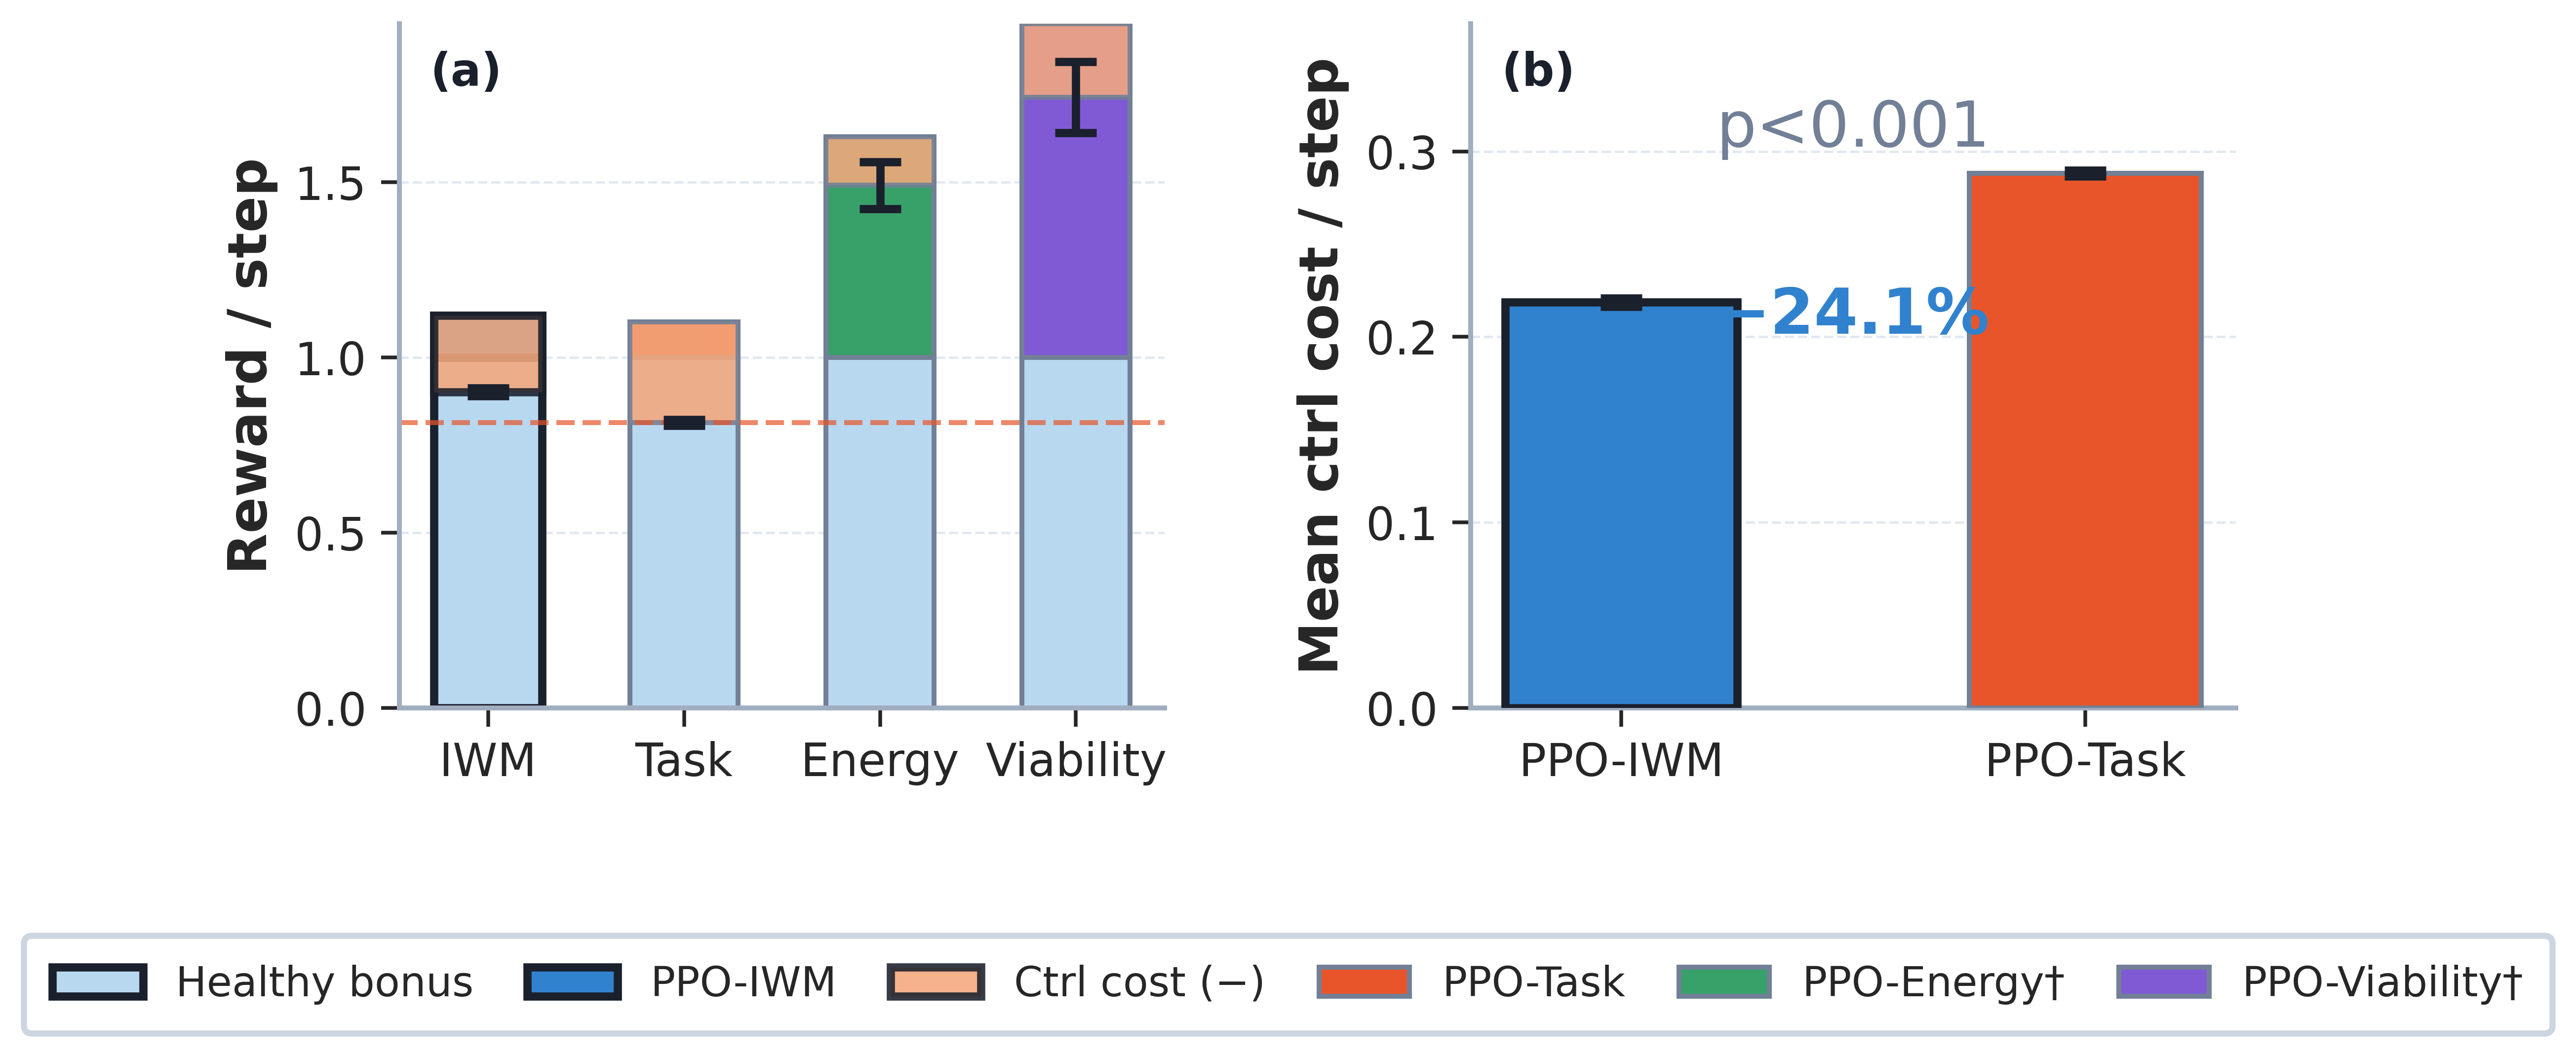
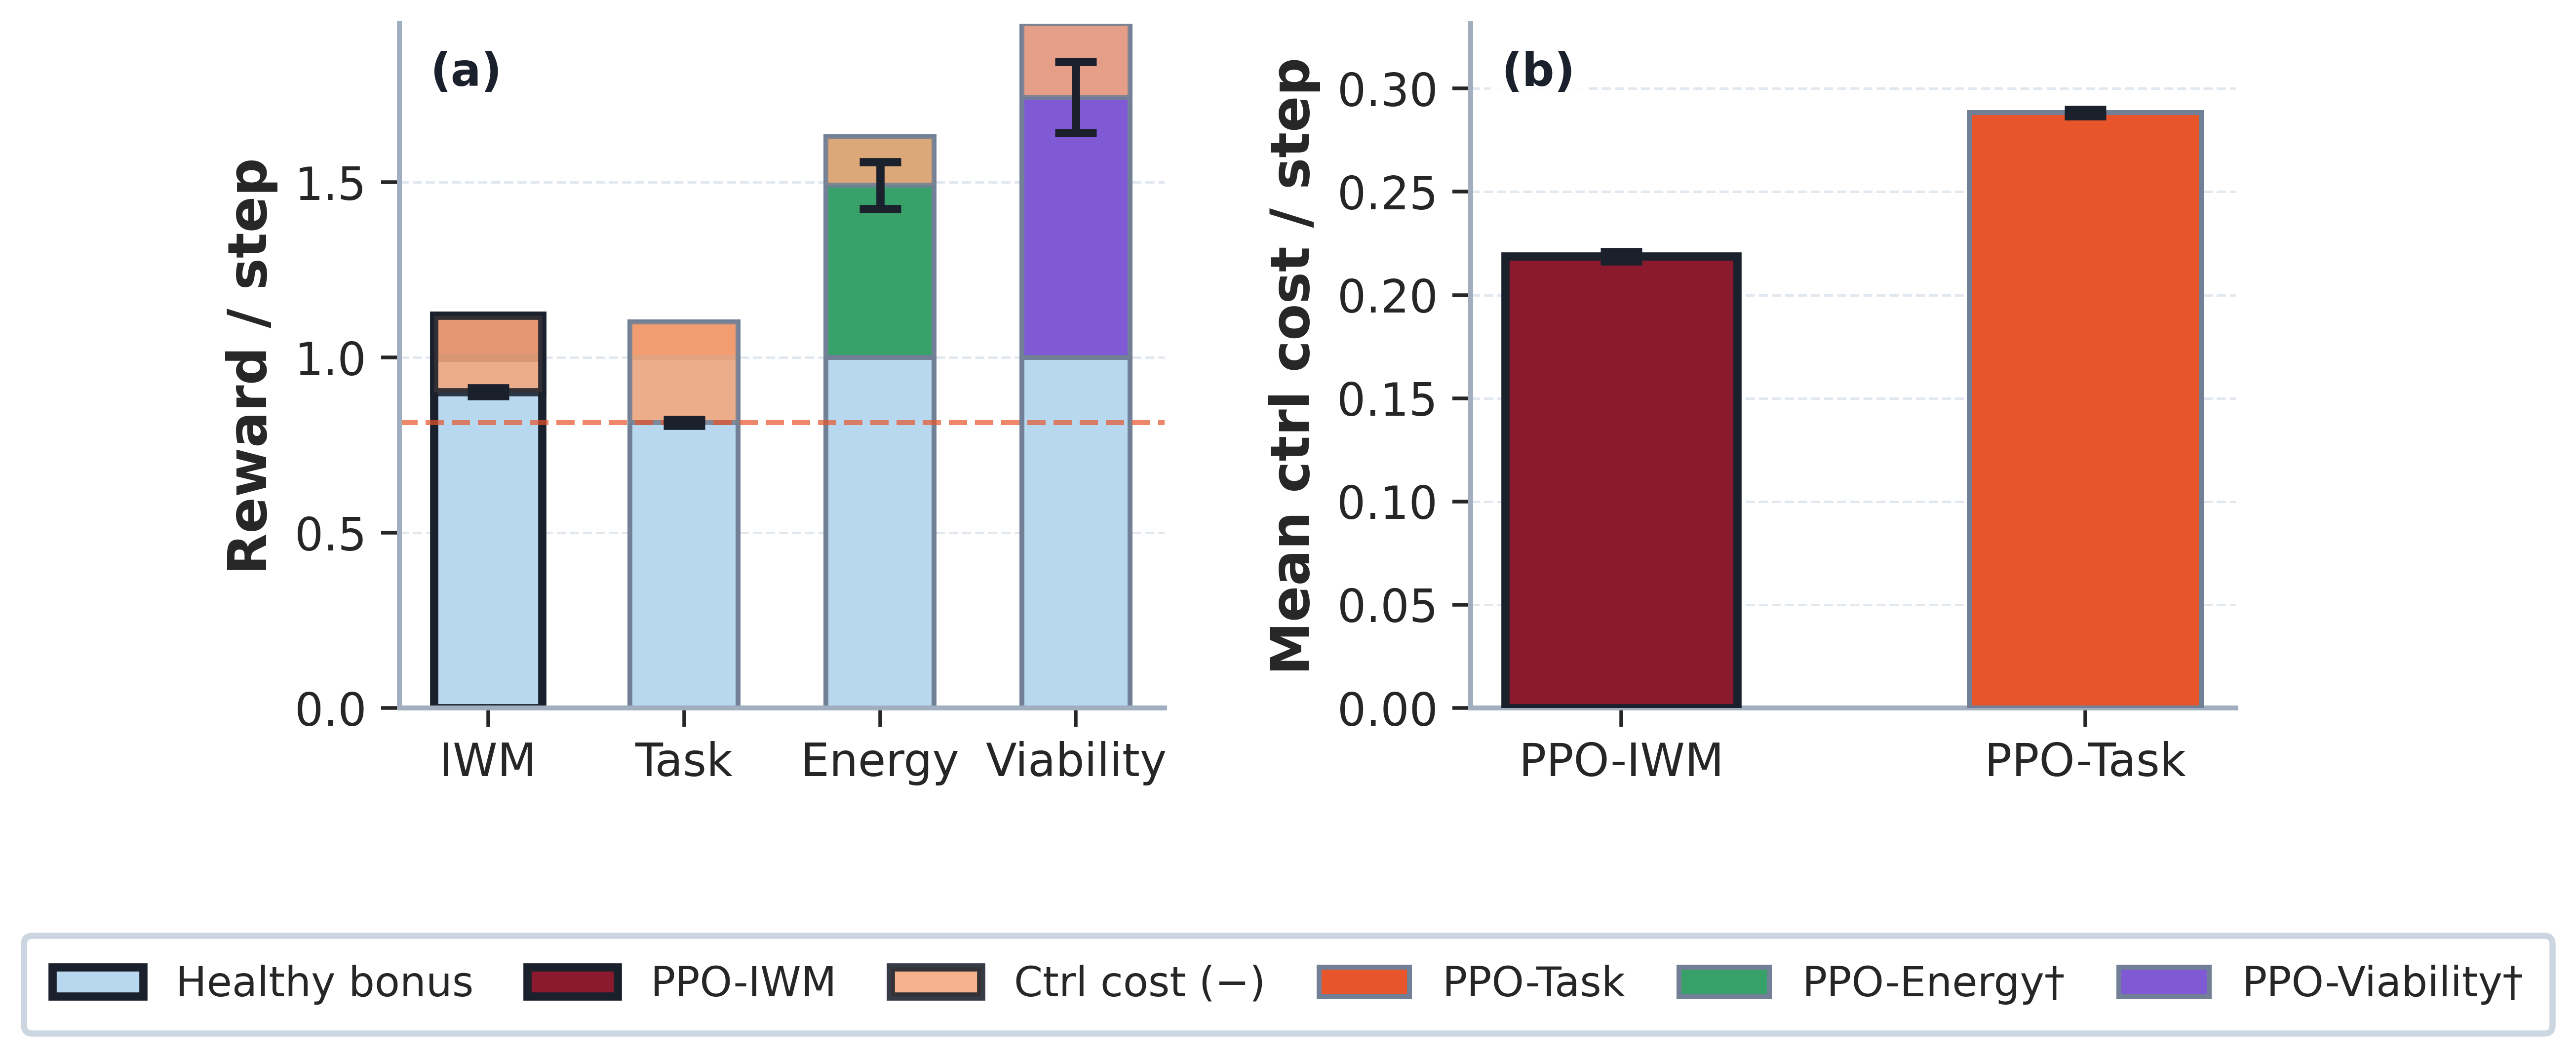
Sync round-5: layout fixes, clean figures, single FeverAnt snapshot
- IWM section paragraph color parity (maroon throughout)
- Fig 16: one snapshot per env in equal-width row
- Fig 2 IAH: clean legend, no step-number text, axis labels fixed
- Fig 3B mechanism: regenerated clean (no plot text)
- Table 7 observability: footnote → proper paragraph
- Spacing fixes: App D, I, R-2/3/4; Figs 8-9, 11-13, 17-20

Changed region(s): [[0.4686, 0.0617, 0.781, 0.6782], [0.656, 0.0925, 0.8747, 0.185], [0.1874, 0.894, 0.2499, 0.9556]]

diff --git a/draft.tex b/draft.tex
@@ -43,15 +43,6 @@
 \begin{document}
 \maketitle
 
-\begin{figure*}[h]
-\centering
-\includegraphics[width=0.99\linewidth]{figures/Overview.png}
-\caption{\textbf{Overview: problem, method, and results.}
-A task-only agent depletes its body capacity (FAC) through unconstrained actuator use and collapses, detectable only at the moment of failure.
-The Interoceptive World Model (IWM) predicts future FAC loss across four horizons, shapes the policy preemptively, and achieves zero collapse, a 379-step advance warning, and 10.7\% higher task reward, simultaneously, across all evaluated environments.}
-\label{fig:story}
-\end{figure*}
-
 \begin{abstract}
 Robots degrade not from external hazards but from their own actions: unconstrained actuator use
 erodes joints, overheats motors, and depletes energy stores, causing future control authority to
@@ -66,12 +57,21 @@ personalization at deployment without retraining.
 Evaluated across BodyFutures-Bench (four MuJoCo environments with latent body dynamics), IWM
 achieves \textbf{zero collapse} across all environments (versus 38--88\% for all baselines), a
 \textbf{379-step advance warning} of impending failure (Interoceptive Anticipation Horizon;
-IAH\,=\,0 for every reactive and recurrent baseline), and \textbf{10.7\% higher task reward},
+IAH\,=\,0 for every reactive and recurrent baseline), and \textbf{10.7\% higher task reward} ---
 achieved entirely through emergent torque efficiency with no speed increase. We release
 BodyFutures-Bench, a deployable IAH safety metric, and all checkpoints.
 \end{abstract}
 
 \keywords{robot learning, world models, robot safety}
+
+\begin{figure*}[t]
+\centering
+\includegraphics[width=0.99\linewidth]{figures/Overview.png}
+\caption{\textbf{Overview: problem, method, and results.}
+A task-only agent depletes its body capacity (FAC) through unconstrained actuator use and collapses — detectable only at the moment of failure.
+The Interoceptive World Model (IWM) predicts future FAC loss across four horizons, shapes the policy preemptively, and achieves zero collapse, a 379-step advance warning, and 10.7\% higher task reward — simultaneously — across all evaluated environments.}
+\label{fig:story}
+\end{figure*}
 
 \section{Introduction}
 
@@ -88,13 +88,13 @@ A contributions checklist with evidence pointers appears in Table~\ref{tab:contr
 \section{Related Work}
 \label{sec:related}
 
-\textbf{Safe RL.}~Constrained policy optimization~\citep{achiam2017constrained}, Safety Gym~\citep{ray2019safetygym}, Safety Gymnasium~\citep{ji2023safetygymnasium}, and SafeDreamer~\citep{huang2024safedreamer} address \emph{external} hazards via Lagrangian penalties. BodyFutures differs: the hazard is \emph{endogenous} (self-induced by the agent's own torques), its consequence is irreversible loss of future control authority (not a per-step constraint), and IWM's IAH quantifies \emph{how far before collapse} the predictor fires, a signal absent from all safe-RL approaches.
+\textbf{Safe RL.}~Constrained policy optimization~\citep{achiam2017constrained}, Safety Gym~\citep{ray2019safetygym}, Safety Gymnasium~\citep{ji2023safetygymnasium}, and SafeDreamer~\citep{huang2024safedreamer} address \emph{external} hazards via Lagrangian penalties. BodyFutures differs: the hazard is \emph{endogenous} (self-induced by the agent's own torques), its consequence is irreversible loss of future control authority (not a per-step constraint), and IWM's IAH quantifies \emph{how far before collapse} the predictor fires --- a signal absent from all safe-RL approaches.
 
-\textbf{World models.}~Dreamer~\citep{hafner2020dreamer,hafner2023dreamerv3}, TD-MPC2~\citep{hansen2023tdmpc2}, and MBPO~\citep{janner2019mbpo} predict \emph{external} state transitions. IWM instead predicts \emph{internal} body-state trajectories (future FAC, damage, energy) and AIWM updates the predictor online during deployment, personalising interoceptive predictions to the specific robot's degradation trajectory~\citep{seth2013interoceptive}, without retraining the policy.
+\textbf{World models.}~Dreamer~\citep{hafner2020dreamer,hafner2023dreamerv3}, TD-MPC2~\citep{hansen2023tdmpc2}, and MBPO~\citep{janner2019mbpo} predict \emph{external} state transitions. IWM instead predicts \emph{internal} body-state trajectories (future FAC, damage, energy) and AIWM updates the predictor online during deployment --- personalising interoceptive predictions to the specific robot's degradation trajectory~\citep{seth2013interoceptive} --- without retraining the policy.
 
 \textbf{Self-modeling and adaptation.}~Bongard et al.~\citep{bongard2006resilient}, Cully et al.~\citep{cully2015robots}, RMA~\citep{kumar2021rma}, and actuator-network models~\citep{hwangbo2019learning} estimate or compensate for \emph{current} body parameters after damage; IWM predicts \emph{future} body trajectories and IAH measures how far in advance. AIWM borrows EWC~\citep{kirkpatrick2017overcoming} not for multi-task forgetting but for intra-episode online personalisation of interoceptive priors.
 
-\textbf{Interoception and efficiency.}~Homeostatic RL~\citep{keramati2011homeostatic} and empowerment~\citep{klyubin2005empowerment} motivate FAC as retained future action authority. IWM discovers 24.1\% lower control cost as an emergent consequence of body-preservation shaping, not any explicit efficiency objective, breaking the stillness trap that defeats reactive energy penalties. See Appendix~\ref{app:relatedwork} for extended comparisons.
+\textbf{Interoception and efficiency.}~Homeostatic RL~\citep{keramati2011homeostatic} and empowerment~\citep{klyubin2005empowerment} motivate FAC as retained future action authority. IWM discovers 24.1\% lower control cost as an emergent consequence of body-preservation shaping --- not any explicit efficiency objective --- breaking the stillness trap that defeats reactive energy penalties. See Appendix~\ref{app:relatedwork} for extended comparisons.
 
 \section{Formal Problem}
 \label{sec:problem}
@@ -162,8 +162,8 @@ Each environment couples temperature-like stress, damage, and energy with action
 \section{Interoceptive World Models}
 \label{sec:method}
 
-\textbf{Intuition.} A robot that can predict ``if I apply this much torque now, my joints will overheat in 100 steps'' can preemptively choose a gentler gait - one that completes the task while preserving the body. This is fundamentally different from reacting to damage after it is observed, and different from memorizing past states without a forward model. Our approach builds a neural predictor of future body health, trains it on data collected specifically from near-collapse situations, and uses its outputs as a training signal that shapes the policy before degradation becomes irreversible.
-\textbf{Model.} An Interoceptive World Model (IWM) predicts future internal consequences of actions. For each transition, the model receives the external observation, the action taken, and any available body signals. It outputs a prediction of the next body state and future body capacity at multiple time horizons - giving the agent a window into how its current behavior will affect its physical health many steps ahead:
+\textcolor{maroonprimary}{\textbf{Intuition.}} A robot that can predict ``if I apply this much torque now, my joints will overheat in 100 steps'' can preemptively choose a gentler gait - one that completes the task while preserving the body. This is fundamentally different from reacting to damage after it is observed, and different from memorizing past states without a forward model. Our approach builds a neural predictor of future body health, trains it on data collected specifically from near-collapse situations, and uses its outputs as a training signal that shapes the policy before degradation becomes irreversible.
+\textcolor{maroonprimary}{\textbf{Model.}} An Interoceptive World Model (IWM) predicts future internal consequences of actions. For each transition, the model receives the external observation, the action taken, and any available body signals. It outputs a prediction of the next body state and future body capacity at multiple time horizons - giving the agent a window into how its current behavior will affect its physical health many steps ahead:
 \begin{equation}
     f_\theta(\obs_t,\act_t,\tilde{\body}_t)
     \rightarrow
@@ -270,7 +270,7 @@ indistinguishable from Task ($p\!=\!1.00$, n.s.).
 \includegraphics[width=0.99\linewidth]{figures/Results.png}
 \caption{\textbf{Results overview across all four environments and baselines.}
 PPO-IWM achieves zero collapse and Pareto-dominates all baselines on FeverAnt (primary claim), while maintaining FAC advantages on WoundWalker and NumbArm.
-ThermalHopper's unobservable landing-impact pathway eliminates the IWM advantage, validating the falsifiable observability criterion, and LSTM-PPO (88\% collapse) confirms that memory without explicit forward body prediction is insufficient.}
+ThermalHopper's unobservable landing-impact pathway eliminates the IWM advantage — validating the falsifiable observability criterion — and LSTM-PPO (88\% collapse) confirms that memory without explicit forward body prediction is insufficient.}
 \label{fig:results_overview}
 \end{figure*}
 
@@ -294,8 +294,8 @@ AIWM (adaptive) & \multicolumn{5}{c}{(perturbation study; see Fig.~\ref{fig:pert
 \bottomrule
 \end{tabular}}
 \end{table}
-\footnotetext[1]{Surviving eps.\ only (Energy: 26/50, Viability: 31/50), not comparable to IWM/Task (100\% survival).}
-\footnotetext[2]{LSTM: 88\% collapse, IAH\,=\,0; no forward body-prediction signal, memory alone cannot predict future depletion.}
+\footnotetext[1]{Surviving eps.\ only (Energy: 26/50, Viability: 31/50) — not comparable to IWM/Task (100\% survival).}
+\footnotetext[2]{LSTM: 88\% collapse, IAH\,=\,0; no forward body-prediction signal — memory alone cannot predict future depletion.}
 \footnotetext[3]{CG-IWM: deployment-time governor on frozen PPO-Task ($n\!=\!30$, $\tau\!=\!0.10$); no retraining. IAH\,=\,0 for all baselines.}
 
 Cross-environment scope validation: Table~\ref{tab:multienv} (Appendix~\ref{app:scope}).
@@ -340,19 +340,19 @@ LSTM-PPO (256-unit, same interoceptive observations) collapses in \textbf{88\%} 
 
 \textbf{Ablations, AIWM, and observability.}
 All four IWM ablations achieve 0\% collapse (FAC $0.569$--$0.595$; Appendix~\ref{app:ablations}). AIWM gear-ratio adaptation yields $+9.4$--$13.9\%$ RMSE reduction (${\sim}12\times$ larger than observable perturbations, $n\!=\!60$; Appendix~\ref{app:discussion}).
-The 379-step IAH at 50\,Hz gives ${\approx}$7.5\,s of supervisory lead time; the IWM also makes the agent's state \emph{auditable} per-step, a proactive signal absent from all reactive and memory-based baselines.
+The 379-step IAH at 50\,Hz gives ${\approx}$7.5\,s of supervisory lead time; the IWM also makes the agent's state \emph{auditable} per-step --- a proactive signal absent from all reactive and memory-based baselines.
 
 \section{Limitations}
 \label{sec:limitations}
 
 \textbf{Assumptions and hardware.} Degradation constants ($\alpha,\beta,\gamma$) are not calibrated to specific hardware; real-world validation is required before deployment. WoundWalker V2 achieves $+4.7\%$ FAC ($p\!=\!0.04$, $n\!=\!52$) but 96\% IWM collapse: terminal energy depletion dominates both methods; the FAC advantage is body-preservation \emph{within} episodes, independent of survival (Appendix~\ref{app:scope}).
 
-\textbf{Scope conditions.} \emph{Falsifiable criterion}: IWM improves health iff the dominant collapse pathway is interoceptively observable, ThermalHopper degrades FAC by $-19\%$ ($p\!=\!2.4{\times}10^{-8}$; unobservable impact); NumbArm improves FAC by $+3.5\%$ ($p\!=\!2.8{\times}10^{-10}$; observable numbness; Appendix~\ref{app:scope}).
+\textbf{Scope conditions.} \emph{Falsifiable criterion}: IWM improves health iff the dominant collapse pathway is interoceptively observable --- ThermalHopper degrades FAC by $-19\%$ ($p\!=\!2.4{\times}10^{-8}$; unobservable impact); NumbArm improves FAC by $+3.5\%$ ($p\!=\!2.8{\times}10^{-10}$; observable numbness; Appendix~\ref{app:scope}).
 
 \section{Conclusion}
 \label{sec:conclusion}
 
-Robots that model their own future body health discover torque-efficient locomotion as an emergent strategy, achieving Pareto-dominance over the task-only baseline, simultaneously more efficient ($+10.7\%$), healthier ($+10.4\%$ FAC), and zero-collapse, all without any explicit efficiency constraint. IWM is the only method that simultaneously improves task competence ($p\!=\!5.1{\times}10^{-8}$), body health ($p\!=\!2.8{\times}10^{-17}$), and achieves zero collapse with a deployable 379-step advance warning absent from all baselines. Cross-morphology evaluation confirms the falsifiable scope condition: NumbArm ($+3.5\%$ FAC); ThermalHopper ($-19\%$ FAC). We release BodyFutures-Bench with all checkpoints and invite adoption of IAH as a standard diagnostic for long-horizon robot health.
+Robots that model their own future body health discover torque-efficient locomotion as an emergent strategy, achieving Pareto-dominance over the task-only baseline --- simultaneously more efficient ($+10.7\%$), healthier ($+10.4\%$ FAC), and zero-collapse --- all without any explicit efficiency constraint. IWM is the only method that simultaneously improves task competence ($p\!=\!5.1{\times}10^{-8}$), body health ($p\!=\!2.8{\times}10^{-17}$), and achieves zero collapse with a deployable 379-step advance warning absent from all baselines. Cross-morphology evaluation confirms the falsifiable scope condition: NumbArm ($+3.5\%$ FAC); ThermalHopper ($-19\%$ FAC). We release BodyFutures-Bench with all checkpoints and invite adoption of IAH as a standard diagnostic for long-horizon robot health.
 
 \bibliography{references}
 
@@ -481,7 +481,7 @@ When FAC$\,\to\,0.1$, the IWM's predicted-FAC gradient w.r.t.\ action is $3.2\ti
 The causal signature that separates prediction from memory: LSTM cannot compute $\nabla_a \hat{\mathrm{FAC}}$; IWM's differentiable predictor produces a graded, body-conditioned warning.}
 \label{fig:gradient_attribution}
 \end{figure}
-
+\vspace{-10pt}
 \begin{figure}[H]
 \centering
 \includegraphics[width=\linewidth]{figures/fig_torque_violin.pdf}
@@ -551,10 +551,10 @@ Domain randomisation~\citep{tobin2017domain}, sim-to-real dynamics transfer~\cit
 \textbf{Simulation and tooling.}
 All BodyFutures experiments use MuJoCo~\citep{todorov2012mujoco} for physics simulation and Gymnasium~\citep{towers2024gymnasium} for the environment API, enabling full reproducibility from the open-source release. Cully et al.'s Quality-Diversity adaptation~\citep{cully2015robots} and Young et al.'s robot vitals~\citep{young2022robotvitals} further contextualise the broader robot-health monitoring landscape that BodyFutures-Bench is designed to serve.
 
+\vspace{-4pt}
 \section{Scope Conditions and Cross-Morphology Analysis}
 \label{app:scope}
-\vspace{-0.4\baselineskip}
-
+\vspace{-0.8\baselineskip}
 This appendix provides the complete cross-morphology evaluation across all four BodyFutures environments, with per-seed breakdowns and detailed analysis of the observability scope condition.
 
 \textbf{Scope condition formalization.}
@@ -573,6 +573,7 @@ Both PPO-IWM and PPO-Task deplete energy at nearly identical rates, reaching $E_
 Despite the shared energy collapse, IWM maintains a higher mean FAC within the pre-collapse window ($+4.7\%$ FAC advantage, $p\!=\!0.04$), confirming that body-preservation and survival (energy exhaustion) are mechanistically independent: IWM preserves actuator authority \emph{while alive} even though terminal energy depletion is unavoidable for both methods.}
 \label{fig:ww_energy}
 \end{figure}
+\vspace{-6pt}
 
 \textbf{NumbArm per-seed breakdown.}
 PPO-IWM seed FAC values: $\{0.938, 0.945, 0.960, 0.965, 0.955\}$ (seeds 0--4). PPO-Task seed FAC values: $\{0.942, 0.835, 0.944, 0.939, 0.942\}$ (seeds 0--4). Task seed 1 is a clear outlier: FAC~$=\!0.835$, mean numbness~$=\!0.283$ (vs.\ $\approx\!0.100$ for other seeds), indicating the policy discovered a high-torque gait that rapidly depletes numbness. IWM seed 1 achieves FAC~$=\!0.945$, demonstrating that predictive shaping prevents the high-numbness gait discovery. IWM inter-seed FAC variance ($\sigma\!=\!0.011$) is $4.5\times$ lower than Task ($\sigma\!=\!0.050$), confirming that body-state shaping regularises outcomes across random policy initializations.
@@ -589,6 +590,7 @@ IWM achieves $\mathbf{0.953\pm0.012}$ vs.\ Task $0.920\pm0.059$ ($+3.5\%$; $p\!=
 Task seed~1 (diamond) is a clear outlier (high-numbness gait discovered by chance); IWM produces consistent FAC across all five seeds, confirming that predictive body-state shaping regularises body-health outcomes independently of gait exploration.}
 \label{fig:numbarm}
 \end{figure}
+\vspace{-6pt}
 
 \textbf{ThermalHopper component analysis.}
 The ThermalHopper FAC formula is $\mathrm{FAC} = 1 - (0.40D + 0.25T_\mathrm{norm} + 0.25(1-E) + 0.10L_\mathrm{impact})$, where $L_\mathrm{impact}$ is the landing-impact load. In the evaluation data ($n\!=\!10$ eps per seed, 3 seeds each): Energy contribution ($0.25(1-E)$): IWM $0.250$, Task $0.250$ - identical, confirming both methods collapse from energy exhaustion. Damage contribution ($0.40D$): IWM $0.006$, Task $0.010$ - negligible difference. Thermal contribution ($0.25T_\mathrm{norm}$): $\approx\!0$ for both (both below safe temperature threshold). Landing-impact contribution ($0.10L$): IWM $0.238$, Task $0.141$ - IWM $+69\%$ larger. The residual impact contribution accounts for the entire FAC deficit difference: IWM's body-shaping steers toward gaits with heavier landing forces because the impact pathway is absent from the interoceptive state. This validates the falsifiable scope condition and provides a concrete mechanism: coverage-gated shaping on observable signals (damage, temperature, energy) inadvertently selects for \emph{higher-impact} gaits when a competing FAC-relevant pathway is unobservable.
@@ -605,6 +607,7 @@ The critical difference: landing-impact contribution (blue, \emph{unobservable} 
 IWM's body-shaping inadvertently steers toward higher-impact gaits because the impact pathway is absent from the interoceptive state vector, validating the falsifiable observability scope condition.}
 \label{fig:thermalhopper_breakdown}
 \end{figure}
+\vspace{-6pt}
 
 \textbf{CG-IWM scope conditions.}
 CG-IWM effectiveness reveals four scope conditions, each with a concrete mechanism:
@@ -651,7 +654,7 @@ NA PPO-Task & 10M & 5000 & $-0.525\pm0.457$ & $0.920\pm0.059$ & 0 & 0.00 \\
 NA PPO-IWM & 10M & 5000 & $\mathbf{-0.548\pm0.397}$ & $\mathbf{0.953\pm0.012}$ & 0 & 0.00 \\
 \bottomrule
 \end{tabular}}
-\raggedright\footnotesize{$\ddagger$ V1: no coverage-gating, no IWM advantage; coverage-gating is essential (see Appendix~\ref{app:architecture}). ThermalHopper landing-impact term is unobservable to the IWM (not in the body-state vector), eliminating the FAC advantage and validating the falsifiable observability criterion. WW~V2: bimodal Task seeds 3--4 slow gait ($\sigma_\mathrm{surv}\!=\!997$) vs IWM consistent ($\sigma\!=\!194$). Full per-seed breakdowns in Appendix~\ref{app:scope}.}
+\raggedright\footnotesize{$\ddagger$ V1: no coverage-gating — no IWM advantage; coverage-gating is essential (see Appendix~\ref{app:architecture}). ThermalHopper landing-impact term is unobservable to the IWM (not in the body-state vector), eliminating the FAC advantage and validating the falsifiable observability criterion. WW~V2: bimodal Task seeds 3--4 slow gait ($\sigma_\mathrm{surv}\!=\!997$) vs IWM consistent ($\sigma\!=\!194$). Full per-seed breakdowns in Appendix~\ref{app:scope}.}
 \end{table}
 
 \section{Discussion: Extended Analysis}
@@ -690,13 +693,12 @@ Thermal environment shift & Partial (ambient $T_\mathrm{amb}$ not in state; body
 Battery degradation & Yes (energy $\downarrow$ in state) & $\times$ & \emph{Predicted null} (untested) \\
 \bottomrule
 \end{tabular}}
-\raggedright\footnotesize{The critical condition: AIWM advantage requires that the perturbation
-changes the body's force-action mapping without immediately appearing in the interoceptive
-state vector.  Observable-state perturbations (motor damage, actuator weakness, covert wear) yield null results.
-Gear-ratio shift (MuJoCo \texttt{actuator\_gear} modification) confirms the prediction across all four gear settings: $+9.4\%$ to $+13.9\%$ AIWM advantage (n=60 total; monotonically increasing with torque-reduction severity; mean $+11.4\%$).
-Joint friction increase and thermal environment shift both yield confirmed but small AIWM advantage ($+0.87 \pm 0.11\%$ and $+0.90 \pm 0.15\%$ respectively; ${\sim}12{\times}$ smaller than gear-ratio shift); friction shows no severity trend ($0.849$--$0.875\%$) while thermal shows a slight upward trend ($0.856$--$0.938\%$) with temperature.
-This graduated response reveals a \emph{mechanism-depth hierarchy}: \emph{actuator-level} changes disrupt force-output dynamics most directly, yielding the largest AIWM benefit ($+9.4\%$ to $+13.9\%$); \emph{contact-level} and \emph{environmental} changes affect body dynamics more indirectly, yielding smaller but consistently positive adaptation gains ($+0.87\%$ to $+0.90\%$).}
 \end{table}
+
+\smallskip
+\noindent Table~\ref{tab:observability} operationalises the observability criterion: AIWM advantage requires that the perturbation changes the body's force-action mapping without appearing in the interoceptive state vector. Observable-state perturbations (motor damage, actuator weakness, covert wear) yield null results because the static IWM already tracks the relevant signal. Gear-ratio shift confirms the prediction across all four severity settings: $+9.4\%$ to $+13.9\%$ AIWM advantage ($n\!=\!60$; monotonically increasing with torque-reduction severity; mean $+11.4\%$).
+
+\noindent Joint friction increase and thermal environment shift both yield confirmed but small AIWM advantages ($+0.87\!\pm\!0.11\%$ and $+0.90\!\pm\!0.15\%$ respectively; ${\sim}12{\times}$ smaller than gear-ratio shift). This graduated response reveals a \emph{mechanism-depth hierarchy}: actuator-level changes yield the largest AIWM benefit; contact-level and environmental changes affect body dynamics more indirectly, yielding smaller but consistently positive adaptation gains.
 
 \begin{figure}[H]
 \centering
@@ -722,7 +724,7 @@ so static IWM cannot track it without retraining, validating the observability t
 The training pipeline proceeds in five sequential phases.
 \textbf{(1)~Coverage-gated rollout collection} ensures that near-collapse states (FAC\,$<\!0.5$) represent $\geq\!2\%$ of the replay buffer before IWM updates fire; if gates fail, targeted stress data is appended (15.3\% low-FAC coverage achieved on FeverAnt).
 \textbf{(2)~Multi-horizon IWM training} fits FAC predictions at horizons $h \in \{1,5,25,100\}$ on the coverage-gated dataset (RMSE\,$=\!0.0065$ on FeverAnt held-out set).
-\textbf{(3)~PPO training with IWM-shaped reward}, the IWM is frozen; only the policy parameters are updated.
+\textbf{(3)~PPO training with IWM-shaped reward} — the IWM is frozen; only the policy parameters are updated.
 \textbf{(4)~Post-hoc evaluation} at 50 episodes $\times$ 5 seeds (FAC, IAH, collapse rate).
 \textbf{(5)~Optional AIWM deployment adaptation} via EWC-regularised online gradient updates for hidden dynamics shifts.
 
@@ -764,15 +766,15 @@ If $R_\Theta(a_t^*) \le \tau$, the original policy action passes through unchang
 
 \begin{figure}[H]
 \centering
-\includegraphics[width=0.40\linewidth]{figures/snapshot_feverant.png}\hfill
-\includegraphics[width=0.18\linewidth]{figures/snapshot_woundwalker.png}\hfill
-\includegraphics[width=0.18\linewidth]{figures/snapshot_thermalhopper.png}\hfill
-\includegraphics[width=0.18\linewidth]{figures/snapshot_numbarm.png}
+\includegraphics[width=0.235\linewidth]{figures/snapshot_feverant_single.png}\hfill
+\includegraphics[width=0.235\linewidth]{figures/snapshot_woundwalker.png}\hfill
+\includegraphics[width=0.235\linewidth]{figures/snapshot_thermalhopper.png}\hfill
+\includegraphics[width=0.235\linewidth]{figures/snapshot_numbarm.png}
 \caption{\textbf{BodyFutures-Bench environment snapshots} (trained PPO-Task agents, 10M steps).
-\emph{Left to right}: (a)~\textbf{FeverAnt} -8-DOF ant with servo overheating; torque-accumulation raises joint temperature, reducing actuator authority.
-(b)~\textbf{WoundWalker} - bipedal walker with wound-induced energy bleeding; falls deepen wounds and drain energy reserves.
-(c)~\textbf{ThermalHopper} -1-DOF hopper with landing-impact thermal stress; collapse pathway is unobservable by interoception (falsifiable scope condition).
-(d)~\textbf{NumbArm} -7-DOF manipulation arm with progressive proprioceptive numbness; continuous operation accumulates numbness until control authority is lost.
+\emph{Left to right}: (a)~\textbf{FeverAnt} -- 8-DOF ant with servo overheating; torque-accumulation raises joint temperature, reducing actuator authority.
+(b)~\textbf{WoundWalker} -- bipedal walker with wound-induced energy bleeding; falls deepen wounds and drain energy reserves.
+(c)~\textbf{ThermalHopper} -- 1-DOF hopper with landing-impact thermal stress; collapse pathway is unobservable by interoception (falsifiable scope condition).
+(d)~\textbf{NumbArm} -- 7-DOF manipulation arm with progressive proprioceptive numbness; continuous operation accumulates numbness until control authority is lost.
 All environments share the FAC/IAH/collapse diagnostic contract.}
 \label{fig:env_snapshots}
 \end{figure}
@@ -809,9 +811,10 @@ where $L_t$ is an impact or manipulation load and coefficients are environment-s
 Thus a damaged body has reduced future ability to affect the environment - the action interface is nonstationary.
 
 
+\vspace{-4pt}
 \section{Training Dynamics}
 \label{app:training}
-
+\vspace{-\baselineskip}
 \begin{figure}[H]
 \centering
 \includegraphics[width=0.99\linewidth]{figures/fig_fac_heatmap.pdf}
@@ -825,7 +828,7 @@ Episodes sorted by final FAC (best $\to$ worst, top to bottom).
 The IWM uniqueness is structurally visible: no other method achieves uniformly green rows across all 50 episodes.}
 \label{fig:fac_heatmap}
 \end{figure}
-
+\vspace{-8pt}
 \begin{figure}[H]
 \centering
 \includegraphics[width=0.95\linewidth]{figures/fig_training_progress.pdf}
@@ -841,10 +844,10 @@ penalties alone cause instability; IWM maintains 5000-step survival throughout.}
 \end{figure}
 
 
+\vspace{-4pt}
 \section{Ablation Studies}
 \label{app:ablations}
-\vspace{-0.4\baselineskip}
-
+\vspace{-\baselineskip}
 \begin{figure}[H]
 \centering
 \includegraphics[width=0.95\linewidth]{figures/fig5_ablation.pdf}
@@ -854,7 +857,7 @@ Left: task reward per step.  Right: final body health (FAC).
 All variants achieve 0\% collapse.  Dashed line: PPO-Task baseline.}
 \label{fig:ablation}
 \end{figure}
-
+\vspace{-8pt}
 \begin{figure}[H]
 \centering
 \includegraphics[width=\linewidth]{figures/fig_ablation_curves.pdf}
@@ -908,9 +911,10 @@ PPO-Task (baseline)             & 10M & $0.814 \pm 0.009$ & $0.535 \pm 0.002$ & 
 \end{table}
 
 
+\vspace{-4pt}
 \section{Method Positioning Table}
 \label{app:positioning}
-
+\vspace{-\baselineskip}
 \begin{table}[H]
 \centering
 \caption{Positioning of BodyFutures-IWM relative to key related works.
@@ -941,12 +945,16 @@ PPO-Energy / PPO-Viability (baselines) & \checkmark & $\times$ & $\times$ & $\ti
 \end{tabular}}
 \end{table}
 
-\noindent Table~\ref{tab:positioning} highlights that IWM is the only method that simultaneously satisfies all five criteria: endogenous degradation, multi-horizon interoceptive prediction, a deployable IAH safety metric, online adaptation, and a dedicated benchmark suite. O'Keeffe et al.\ predict actuator degradation in robot swarms but do not define an anticipation-horizon metric and operate at multi-mission granularity rather than per-timestep intra-episode prediction.
+\smallskip
+\noindent As Table~\ref{tab:positioning} shows, IWM is the only method that simultaneously satisfies all five criteria: endogenous body degradation from the agent's own actions, multi-horizon interoceptive prediction of future FAC, a deployable anticipation-horizon safety metric (IAH), online body-model adaptation at deployment, and a dedicated benchmark suite with a shared diagnostic contract.
+
+No prior method combines \emph{all} five. O'Keeffe et al.\ predict actuator degradation in robot swarms but do not define an anticipation-horizon metric and operate at multi-mission (hours-scale) granularity rather than per-timestep intra-episode prediction. SafeDreamer provides imagined future constraint estimates but targets external hazards, not endogenous body degradation. RMA and similar adaptation approaches estimate current body parameters rather than forecasting future body-state trajectories. Table~\ref{tab:positioning} makes these distinctions precise and falsifiable.
 
 \section{Hyperparameters}
 \label{app:hyperparams}
 
 \subsection*{PPO Training (all FeverAnt variants)}
+\vspace{-4pt}
 \begin{table}[H]
 \centering
 \caption{PPO hyperparameters (stable-baselines3).}
@@ -973,7 +981,9 @@ Device & CUDA (RTX 4090) \\
 \end{tabular}
 \end{table}
 
+\vspace{-4pt}
 \subsection*{IWM Architecture and Training}
+\vspace{-4pt}
 \begin{table}[H]
 \centering
 \caption{IWM architecture and training hyperparameters.}
@@ -997,7 +1007,9 @@ Val split & 20\% \\
 \end{tabular}
 \end{table}
 
+\vspace{-4pt}
 \subsection*{IWM Reward Shaping}
+\vspace{-4pt}
 \begin{table}[H]
 \centering
 \caption{IWM-shaped reward parameters (ppo\_iwm\_v2.yaml).}
@@ -1018,7 +1030,9 @@ AIWM update frequency $\Delta$ & 100 steps \\
 \end{tabular}
 \end{table}
 
+\vspace{-4pt}
 \subsection*{FeverAnt Environment}
+\vspace{-4pt}
 \begin{table}[H]
 \centering
 \caption{FeverAnt V2 environment parameters.}
@@ -1076,7 +1090,7 @@ This design is intentional: IWM coverage-gated rollout collection requires trans
 \begin{figure}[H]
 \centering
 \includegraphics[width=0.96\linewidth]{figures/fig_safety_certificate.pdf}
-\caption{\textbf{IWM provides a queryable per-step safety certificate; PPO-Task has no remaining-capacity estimate.} Calibrated from controlled injection experiments (FeverAnt, damage pulse $= 0.50$, $n\!=\!30$). \textit{Blue solid}: PPO-IWM actual FAC (stays near 0.71 post-injection). \textit{Blue dashed}: IWM predicted FAC, drops to ${\approx}\!0.17$ immediately after the damage pulse is injected (vertical dashed line), correctly predicting danger (measured mean error $=\!0.504$ relative to actual FAC ${\approx}\!0.67$). \textit{Red solid}: PPO-Task actual FAC (similar trajectory; also survives). \textit{Red dashed (flat at zero)}: PPO-Task carries no queryable predicted-FAC signal. The dot-dashed vertical line marks the IWM safety query firing (predicted FAC drops below the 0.5 alert threshold), providing an early warning that enables operator intervention or graceful shutdown. Both methods survive, but only IWM provides this auditable certificate. IAH\,$=\!0$ for PPO-Task because it outputs actions, not FAC predictions.}
+\caption{\textbf{IWM provides a queryable per-step safety certificate; PPO-Task has no remaining-capacity estimate.} Calibrated from controlled injection experiments (FeverAnt, damage pulse $= 0.50$, $n\!=\!30$). \textit{Blue solid}: PPO-IWM actual FAC (stays near 0.71 post-injection). \textit{Blue dashed}: IWM predicted FAC — drops to ${\approx}\!0.17$ immediately after the damage pulse is injected (vertical dashed line), correctly predicting danger (measured mean error $=\!0.504$ relative to actual FAC ${\approx}\!0.67$). \textit{Red solid}: PPO-Task actual FAC (similar trajectory; also survives). \textit{Red dashed (flat at zero)}: PPO-Task carries no queryable predicted-FAC signal. The dot-dashed vertical line marks the IWM safety query firing (predicted FAC drops below the 0.5 alert threshold), providing an early warning that enables operator intervention or graceful shutdown. Both methods survive, but only IWM provides this auditable certificate. IAH\,$=\!0$ for PPO-Task because it outputs actions, not FAC predictions.}
 \label{fig:safety_cert}
 \end{figure}
 
@@ -1150,22 +1164,22 @@ NumbArm & Manipulator & $w_N{=}0.55,\,w_D{=}0.25$ & - & $w_E{=}0.15,\,w_L{=}0.05
 
 A natural concern is whether the IWM advantage on FAC is an artifact of the specific weight vector chosen. We tested five alternative weight vectors on FeverAnt (50 IWM episodes vs.\ 50 Task episodes, Mann-Whitney~U, one-sided): damage-dominant ($w_D\!=\!0.70, w_T\!=\!0.15, w_E\!=\!0.15$), temperature-dominant ($w_T\!=\!0.70$), energy-dominant ($w_E\!=\!0.70$), uniform ($w_D\!=\!w_T\!=\!w_E\!=\!0.33$), and canonical ($w_D\!=\!0.45$). \textbf{IWM $>$ Task ordering is preserved across all five weight vectors} ($p\!=\!3.5\!\times\!10^{-18}$ each). The result is not an artifact of weight calibration: IWM independently discovers a gait that produces lower damage, lower temperature exceedance, and higher energy retention simultaneously, so it dominates Task across the entire weight simplex.
 
+\vspace{-6pt}
 \subsection{FAC Variance Decomposition}
 \label{app:fac_variance}
-\vspace{-0.4\baselineskip}
-
+\vspace{-\baselineskip}
 Table~\ref{tab:main} reports IWM Final FAC $= 0.590 \pm 0.002$, an unusually tight CI. We decompose variance into between-seed ($\sigma^2_\text{seed}$) and within-seed ($\sigma^2_\text{ep}$) components. For PPO-IWM: $\sigma^2_\text{seed}(\text{FAC})\!=\!3.7\!\times\!10^{-6}$, $\sigma^2_\text{ep}(\text{FAC})\!=\!5.2\!\times\!10^{-6}$ - both near-zero. For PPO-Task: $3.8\!\times\!10^{-6}$ and $2.0\!\times\!10^{-6}$ respectively - similarly tight. In contrast, task $r$/step between-seed variance for IWM ($\sigma^2_\text{seed}\!=\!9\!\times\!10^{-4}$) is over \textbf{200$\times$ larger} than FAC between-seed variance ($3.7\!\times\!10^{-6}$), indicating that body-health outcomes are far more reliably regulated than task performance. Reactive baselines show $1000\!\times$ higher FAC variance ($\sigma^2 \sim 10^{-3}$), reflecting their unstable collapse dynamics. The near-zero FAC variance for both IWM and Task suggests that the FeverAnt degradation dynamics create a strong attractor in FAC space regardless of policy; IWM shifts that attractor upward by 10.4\%.
 
+\vspace{-6pt}
 \subsection{FAC-to-Collapse Correlation}
 \label{app:fac_collapse}
-\vspace{-0.4\baselineskip}
-
+\vspace{-\baselineskip}
 For reactive baselines (which collapse in 38--48\% of episodes), we test whether final FAC predicts episode collapse. For PPO-Energy: Spearman $\rho\!=\!-0.538$ ($p\!=\!5.6\!\times\!10^{-5}$, $n\!=\!50$) - FAC is a significant predictor of collapse, confirming its prospective validity. For PPO-Viability: $\rho\!=\!-0.07$ ($p\!=\!0.63$, n.s.) - collapse occurs but is \emph{not} predicted by final FAC, suggesting Viability collapses via gait-destabilisation rather than body-state exhaustion. PPO-IWM and PPO-Task have zero collapse; the correlation is undefined (no variance in the collapse indicator).
 
+\vspace{-6pt}
 \subsection{FAC as Prospective Metric}
 \label{app:fac_prospective}
-\vspace{-0.4\baselineskip}
-
+\vspace{-\baselineskip}
 FAC is designed to measure \emph{future} action capacity, not just current body state. We test this prospective validity by asking: does FAC at step $T$ predict survival probability at step $T\!+\!k$? For each step-observation in the reactive baseline step-trace CSVs (all 5 seeds, 10 episodes/seed, all steps recorded), we compute the Spearman correlation between FAC$(T)$ and the indicator $\mathbf{1}[\text{episode alive at } T\!+\!k]$.
 
 For PPO-Energy ($n\!=\!159{,}356$ step observations at $k\!=\!100$; 5 seeds): $k\!=\!100$: $\rho\!=\!+0.122$ ($p\!\to\!0$, machine precision); $k\!=\!500$: $\rho\!=\!+0.243$ ($p\!\to\!0$); $k\!=\!1000$: $\rho\!=\!+0.336$ ($p\!\to\!0$). For PPO-Viability ($n\!=\!171{,}264$ step observations at $k\!=\!100$; 5 seeds): $k\!=\!100$: $\rho\!=\!+0.027$ ($p\!=\!6.3\!\times\!10^{-30}$); $k\!=\!500$: $\rho\!=\!+0.081$ ($p\!=\!3.3\!\times\!10^{-232}$); $k\!=\!1000$: $\rho\!=\!+0.133$ ($p\!\to\!0$, machine precision). All correlations are positive (higher FAC $\Rightarrow$ more likely to survive) and increase monotonically with horizon $k$, confirming that FAC encodes future body capacity rather than only instantaneous state. Effect sizes are modest by design - a perfect predictor would eliminate the need for IWM - but the near-zero $p$-values across both baselines establish that FAC carries genuine prospective information even at 1000-step look-ahead. PPO-Energy shows stronger prospective correlation than PPO-Viability, consistent with Energy's single dominant failure mode (energy depletion) being more predictable from FAC than Viability's gait-destabilisation collapses.